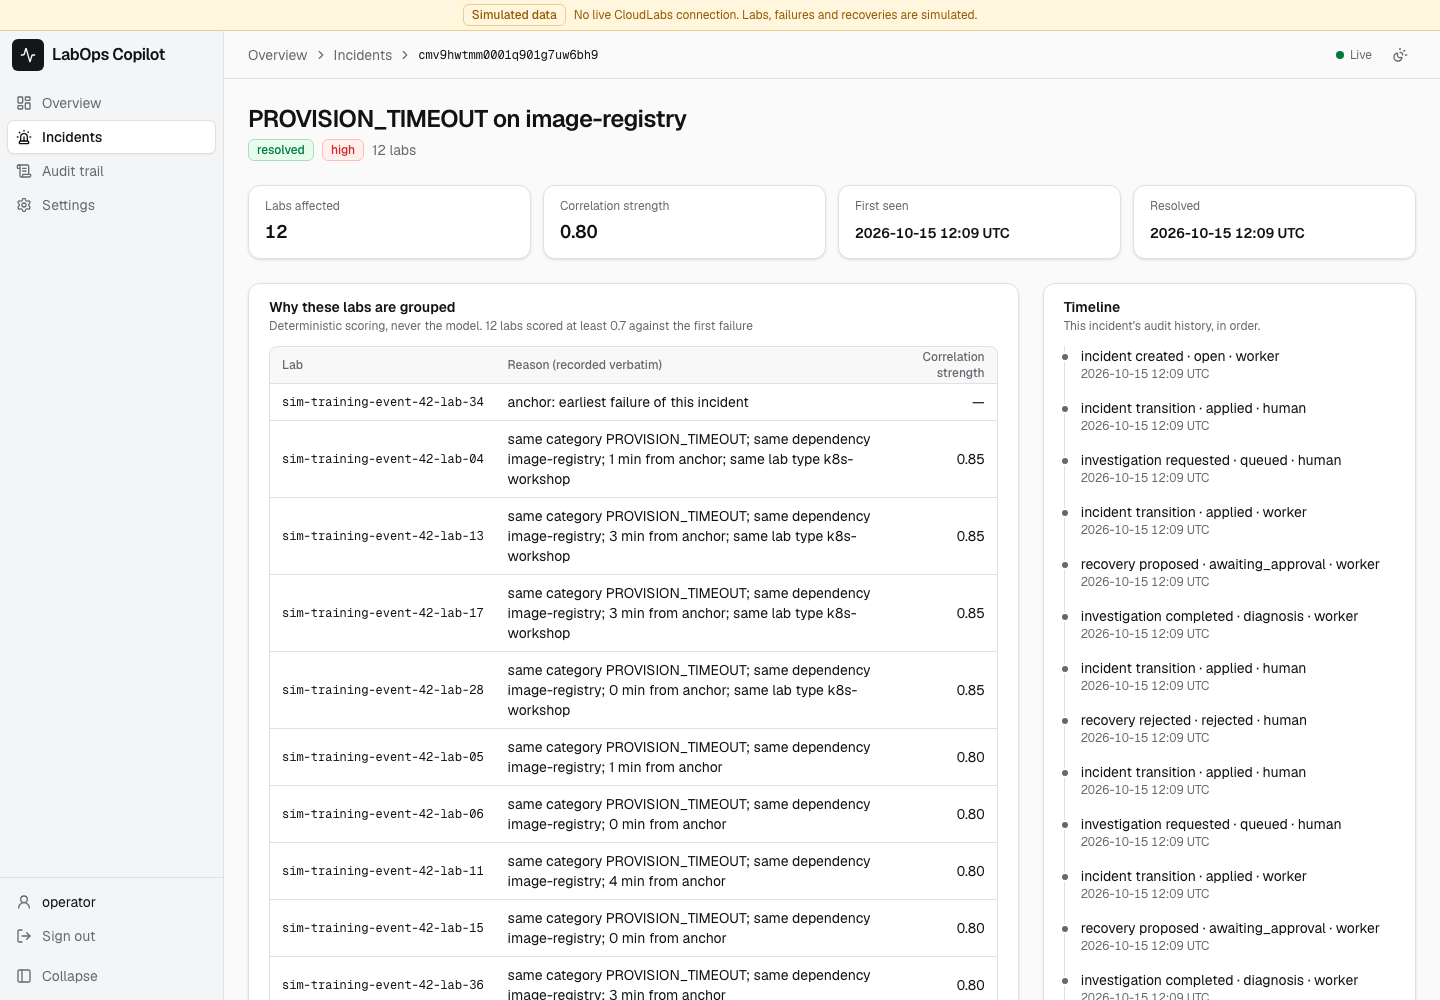
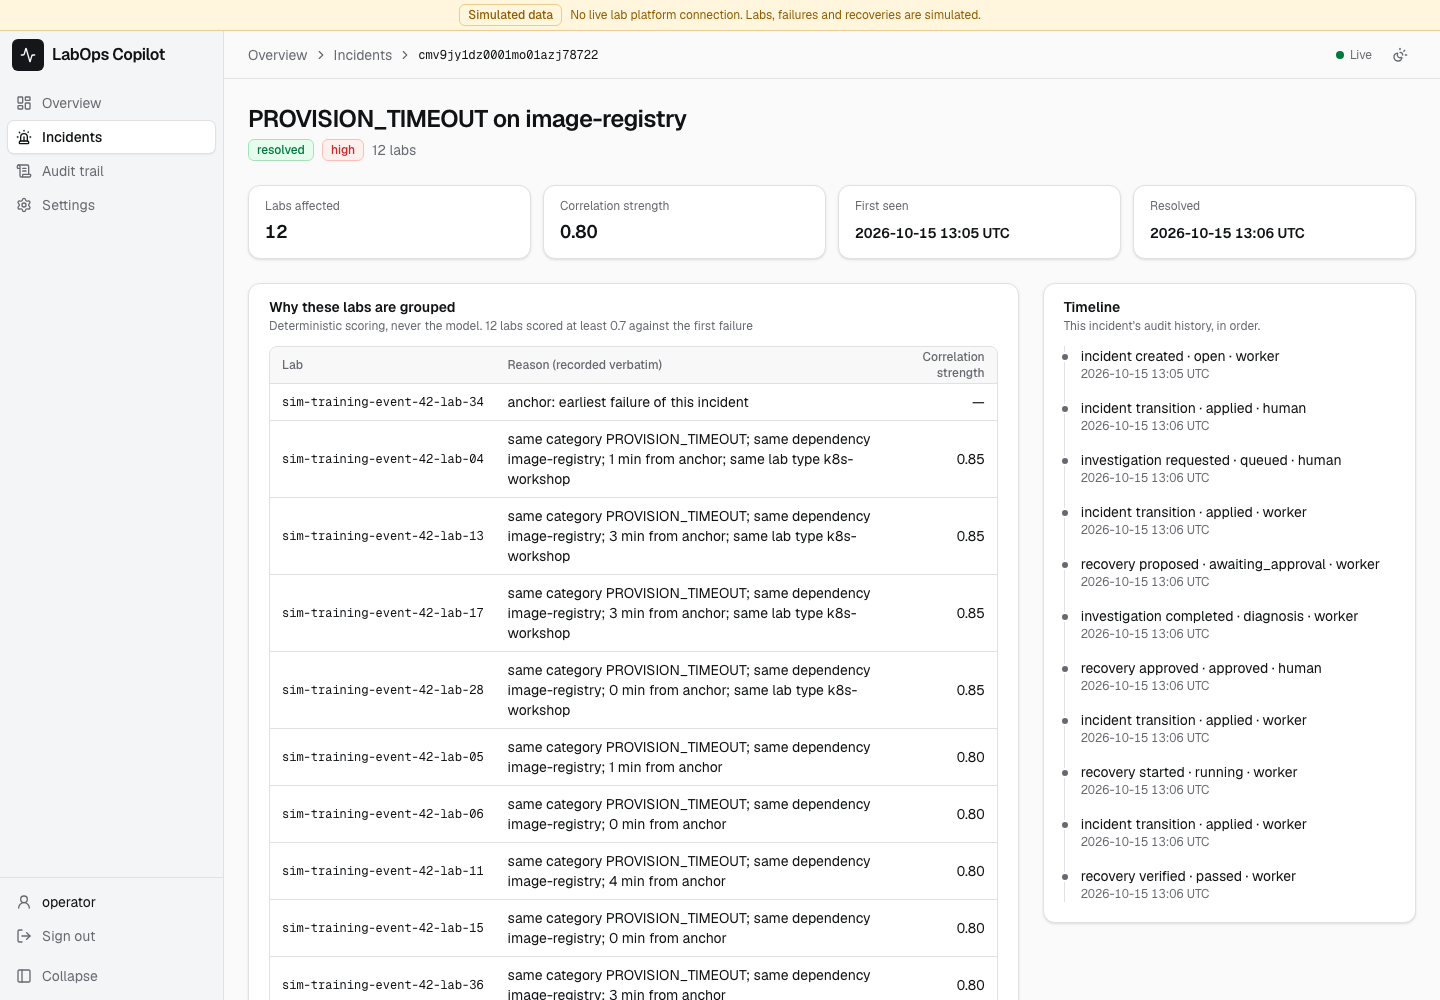
docs: describe the project in its own terms
The tagline is now AI-assisted incident correlation and safe recovery
orchestration for cloud lab operations. Vendor names are gone from every doc,
skill, comment and test, and the integrations skill is now integration-adapter.
The README closes with a short note on why the project was built. Screenshots
are retaken from a run that follows the README walkthrough step by step, and
the numbers table is read from that same run.

diff --git a/README.md b/README.md
@@ -1,24 +1,18 @@
 # LabOps Copilot
 
-**From scattered lab failures to an evidence-backed, safely managed incident
-workflow.**
+**AI-assisted incident correlation and safe recovery orchestration for cloud
+lab operations.**
 
-LabOps Copilot is an AI-assisted incident response and recovery coordination
-prototype for cloud lab operations. It ingests operational events from a
+LabOps Copilot is a prototype that takes cloud lab operations from scattered
+failures to an evidence-backed, safely managed incident workflow. It ingests operational events from a
 simulated lab fleet, correlates unrelated-looking failures into explainable
 candidate incidents, runs an LLM investigation over bounded evidence, and then
 routes any proposed recovery through a deterministic policy engine and a human
 approval before a background worker executes and verifies it.
 
-> **Positioning.** This is a proposed companion concept for a CloudLabs-style
-> platform — a focused workflow and engineering demonstration. It is **not** a
-> claim that Spektra Systems lacks incident management, correlation or recovery
-> capability. Public materials describe overlapping CloudLabs and Cosmos
-> features; whether a genuine product gap exists needs validation with the
-> Spektra team.
->
 > **All lab infrastructure in this repository is simulated.** The MVP does not
-> touch real cloud resources and makes no live CloudLabs connection.
+> touch real cloud resources and makes no live connection to any lab
+> platform.
 
 ![The overview dashboard after the demo scenario](docs/images/dashboard.png)
 
@@ -146,11 +140,11 @@ read from `GET /api/metrics`. Nothing here is estimated.
 
 | Figure | p50 | Note |
 |---|---|---|
-| First event to incident | 2.14 s | About 2 s is the deliberate dispatch delay that lets a burst collapse into one correlation run |
-| Correlation run | 9 ms | 8 runs, one per window |
-| Investigation job | 30 ms | Fixture model; a real model adds its own latency |
-| Recovery execution | 56 ms | Revalidate, retry, verify |
-| Approval to verified | 2.09 s | The same 2 s dispatch delay, then the run |
+| First event to incident | 2.06 s | About 2 s is the deliberate dispatch delay that lets a burst collapse into one correlation run |
+| Correlation run | 10 ms | 8 runs, one per window |
+| Investigation job | 29 ms | Fixture model; a real model adds its own latency |
+| Recovery execution | 63 ms | Revalidate, retry, verify |
+| Approval to verified | 2.14 s | The same 2 s dispatch delay, then the run |
 
 ---
 
@@ -277,7 +271,7 @@ It covers design principles, system context and trust boundaries, runtime
 topology, the backend module map, the incident lifecycle sequence, the data
 model with DB-level invariants, lab and incident state machines, the correlation
 engine and its signal weights, the AI boundary rules, the recovery safety model,
-reliability and failure behaviour, observability, the CloudLabs integration
+reliability and failure behaviour, observability, the lab platform integration
 gate, the security model, the test architecture, deployment topology, current
 implementation status, and the trade-offs taken.
 
@@ -508,7 +502,7 @@ envelope.
 | `POST` | `/api/integrations/:provider/test` | Run the adapter's own probe |
 | `POST` | `/api/demo/scenarios/:name` | Run a seeded scenario; idempotent per seed; only when `DEMO_ENABLED` |
 
-Sync, webhook and delivery endpoints for CloudLabs are **not built on purpose**:
+Sync, webhook and delivery endpoints for the lab platform are **not built on purpose**:
 their contract is unverified (`ARCHITECTURE.md` section 13).
 
 ---
@@ -619,7 +613,7 @@ Known and deliberate. Each is recorded in `docs/infra/INFRA.md`.
   do.
 - **Nothing alerts on a long open transaction.** The metric exists; the alert
   does not.
-- **No live CloudLabs connector.** Built only after the API contract,
+- **No live lab platform connector.** Built only after the API contract,
   credentials and a sandbox are confirmed (`ARCHITECTURE.md` section 13).
 - **Not hosted.** Local-only by decision; the intended production shape is in
   `ARCHITECTURE.md` section 16.
@@ -630,16 +624,17 @@ Known and deliberate. Each is recorded in `docs/infra/INFRA.md`.
 
 Deliberately out of scope for the MVP:
 
-- Assuming access to Spektra's private systems or undocumented endpoints
-- Real CloudLabs recovery execution, unless separately authorised and sandboxed
+- Assuming access to any platform's private systems or undocumented endpoints
+- Real recovery execution against a live platform, unless separately authorised
+  and sandboxed
 - Real Azure/AWS provisioning or destructive cloud operations
-- Replacing CloudLabs or Cosmos, or a general-purpose lab creation platform
+- Replacing a lab platform, or becoming a general-purpose lab creation platform
 - Arbitrary command execution by an LLM
 - Kubernetes or multi-service deployment
 - Multiple cooperating AI agents without a clear need
 - Production-scale claims from a local prototype
 
-A live CloudLabs connector will only be implemented against verified official
+A live lab platform connector will only be implemented against verified official
 documentation, supplied credentials and sandbox access. The provider-adapter
 boundary exists so that adding it later does not change the pipeline. Until
 then the simulator is the data source and the connection state reads
@@ -650,3 +645,10 @@ then the simulator is the data source and the connection state reads
 ## License
 
 Private project. All rights reserved.
+
+---
+
+## About this project
+
+LabOps Copilot was built as a practical assessment for an interview with
+Spektra Systems.

diff --git a/ARCHITECTURE.md b/ARCHITECTURE.md
@@ -7,10 +7,10 @@ built is marked as such.
 recovery orchestration and verification for cloud lab operations.
 
 > **Important framing.** All lab infrastructure in this system is **simulated**.
-> There is no live CloudLabs connection in the MVP. The integration layer exists
+> There is no live lab platform connection in the MVP. The integration layer exists
 > as a provider-neutral adapter so a verified connector can be added later
 > without changing the pipeline. See
-> [Integration gate](#13-integration-gate--cloudlabs).
+> [Integration gate](#13-integration-gate--external-lab-platform).
 
 ---
 
@@ -46,7 +46,7 @@ flowchart LR
 
   subgraph external["External"]
     LLMP["LLM provider<br/>structured outputs"]
-    CL["CloudLabs platform<br/>(conditional, access-gated)"]
+    CL["External lab platform<br/>(conditional, access-gated)"]
     OBS["Observability backend<br/>OTel collector"]
   end
 
@@ -200,7 +200,7 @@ apps/api/
                         preconditions, retry and cooldown limits
       recovery/         services/ (propose, approve/reject, expire); execution
                         with revalidation and verification in jobs/execute.job.ts
-      integrations/     adapters/ (simulator, CloudLabs with no capabilities:
+      integrations/     adapters/ (simulator, lab platform with no capabilities:
                         the gate is closed), connection settings
       metrics/          GET /api/metrics: combines each module's stats.ts
       demo/             flag-gated scenario trigger (DEMO_ENABLED)
@@ -453,7 +453,7 @@ erDiagram
   }
   INTEGRATION_CONNECTION {
     string id PK
-    string provider "cloudlabs"
+    string provider "lab-platform|simulator"
     string state "not_configured|connecting|connected|error|needs_attention"
     string encryptedCredentials "AES-256-GCM; never returned to a client"
     int keyVersion "which key sealed it"
@@ -857,7 +857,7 @@ All demo numbers come from real runs. No fabricated dashboards.
 
 ---
 
-## 13. Integration gate — CloudLabs
+## 13. Integration gate — external lab platform
 
 The adapter interface exists; the live implementation does not, and will not
 be written speculatively. `capabilities` is read at runtime, and the UI renders
@@ -867,7 +867,7 @@ available.
 **Gate before any live code:** official API documentation obtained, auth scheme
 and scopes confirmed, sandbox tenant or sample payloads supplied, webhook
 security model documented, rate limits known, permitted operations confirmed.
-Absent that, the CloudLabs adapter claims no capabilities and its connection
+Absent that, the lab platform adapter claims no capabilities and its connection
 reads `not_configured`. The product never claims a connection it has not tested.
 
 **Credential handling:** submitted server-side over HTTPS → sealed at rest with
@@ -908,7 +908,7 @@ Three properties make the gate structural rather than a convention:
 2. **`canExecuteRecovery` is typed as the literal `false`.** A future adapter
    cannot enable live recovery without changing the type, which is a visible
    diff rather than a value someone flipped in a commit.
-3. **No capability combination yields `connected` for the CloudLabs adapter.**
+3. **No capability combination yields `connected` for the lab platform adapter.**
    It reports `NO_CAPABILITIES`, makes no network call, and a test asserts
    `not_configured, never connected` by name.
 
@@ -1105,7 +1105,7 @@ end-to-end workflow exists before breadth is added.
 
 ## 19. Open questions
 
-1. **CloudLabs API contract** — auth, endpoints, event types, webhook security,
+1. **Lab platform API contract** — auth, endpoints, event types, webhook security,
    rate limits. Blocks F2a beyond the adapter interface.
 2. **Sandbox access** — a test tenant or sample payloads. Until then the
    simulator is the only data source.

diff --git a/docs/specs/labops-copilot/PLAN.md b/docs/specs/labops-copilot/PLAN.md
@@ -130,7 +130,7 @@ a duplicate-execution bug can hide.
 - Browser → API: Zod on every body, param and query; session-authenticated writes; body size limits.
 - LLM → policy: output is an untrusted proposal; closed action enum; targets intersected with the incident's labs.
 - Event text → LLM: delimited data block, length-capped, redacted before assembly.
-- Provider → API: webhook receiver is **not built** until the CloudLabs contract is verified.
+- Provider → API: webhook receiver is **not built** until the lab platform contract is verified.
 - Secrets: integration credentials encrypted at rest (AES-256-GCM, `node:crypto`), never returned or logged.
 
 **Simplest version that covers the spec:** one API process, one worker process,
@@ -192,7 +192,7 @@ the code. Where the built name differs, the module is the same:
 | `approvals/approve.ts`, `recovery/verify.ts` | `modules/recovery/services/approve.ts`, `modules/recovery/services/expire.ts`; verification lives in `modules/recovery/jobs/execute.job.ts` |
 | `platform/events-stream/hub.ts` with a Redis subscriber, `stream.routes.ts` | `platform/events-stream/hub.ts` polling committed rows, `feed.ts`, `routes.ts` |
 | web `lib/sse.ts` | `lib/live.ts`, `components/live-refresh.tsx`, `app/api/events/stream/route.ts` |
-| `integrations/integrations.routes.ts`, web `integrations/cloudlabs/page.tsx` | `modules/integrations/routes.ts`, `(dashboard)/integrations/page.tsx` |
+| `integrations/integrations.routes.ts`, web `integrations/<provider>/page.tsx` | `modules/integrations/routes.ts`, `(dashboard)/integrations/page.tsx` |
 
 Ordered by dependency: data → logic → API → UI. Every phase merges as its own PR
 with lint, typecheck, unit, integration and coverage green.
@@ -453,13 +453,13 @@ Phase 11 deviations, settled by measurement rather than by the docs:
 
 **Endpoints:**
 - `GET /api/integrations`
-- `PUT /api/integrations/cloudlabs` (validates, encrypts, stores; the response never echoes credentials)
-- `POST /api/integrations/cloudlabs/test`
-- `DELETE /api/integrations/cloudlabs`
+- `PUT /api/integrations/:provider` (validates, encrypts, stores; the response never echoes credentials)
+- `POST /api/integrations/:provider/test`
+- `DELETE /api/integrations/:provider`
 
 `sync`, `webhooks` and `deliveries` are **not built**: their contract is unverified (Integration gate, `ARCHITECTURE.md §13`).
 **Data / migrations:** `IntegrationConnection(id, provider UNIQUE, displayName, state enum, encryptedCredentials bytea?, keyVersion, supportedEventTypes jsonb, lastSuccessfulTestAt?, lastSyncAt?, updatedBy, createdAt, updatedAt)`.
-**Files:** new `platform/secrets/crypto.ts` (AES-256-GCM, key from `CREDENTIALS_KEY` env, versioned), `modules/integrations/adapters/adapter.ts` (the `ProviderAdapter` interface), `modules/integrations/adapters/simulator-adapter.ts`, `modules/integrations/adapters/cloudlabs-adapter.ts` (reports no capabilities, so the connection reads `not_configured`), `integrations/integrations.routes.ts`; web `app/(dashboard)/integrations/cloudlabs/page.tsx`.
+**Files:** new `platform/secrets/crypto.ts` (AES-256-GCM, key from `CREDENTIALS_KEY` env, versioned), `modules/integrations/adapters/adapter.ts` (the `ProviderAdapter` interface), `modules/integrations/adapters/simulator-adapter.ts`, `modules/integrations/adapters/lab-platform-adapter.ts` (reports no capabilities, so the connection reads `not_configured`), `integrations/integrations.routes.ts`; web `app/(dashboard)/integrations/<provider>/page.tsx`.
 **Logic:** the UI renders only what `capabilities` reports, and simulator mode is shown clearly. No auth fields are rendered until the real contract is known (spec F2a).
 **Tests:**
 - An encrypt/decrypt round trip works, and a wrong key fails closed.

diff --git a/AGENTS.md b/AGENTS.md
@@ -12,10 +12,9 @@ the per-phase notes as history).
 
 ## 1. What this project is
 
-LabOps Copilot is an AI-assisted incident response and recovery coordination
-prototype for cloud lab operations (a companion concept for a CloudLabs-style
-platform; never imply Spektra lacks any capability). **All lab infrastructure
-is simulated**; nothing touches a real cloud resource, and the UI says so on
+LabOps Copilot is a prototype for AI-assisted incident correlation and safe
+recovery orchestration in cloud lab operations. Never imply that any existing
+platform lacks a capability. **All lab infrastructure is simulated**; nothing touches a real cloud resource, and the UI says so on
 every page.
 
 The workflow, which now runs end to end in the browser:
@@ -278,7 +277,7 @@ for Phase N is `LOC-(5+N)`.
 | 12 | LOC-17 | #15 | Dashboard (run **before** 10 and 11 by agreement): BFF login, overview, incidents, incident detail with approve/reject, audit; Zod-parsed responses |
 | 10 | LOC-15 | #16 | Live updates over SSE (see section 8a) |
 | 11 | LOC-16 | #19 | Real LLM provider, opt-in: Gemini over plain `fetch`, Zod → Gemini schema transform, bounded retry, token usage in `modelMetadata`, opt-in live test |
-| 13 | LOC-18 | #21 | Integration settings and secrets, adapter-gated: AES-256-GCM credential sealing, `ProviderAdapter`, a CloudLabs adapter claiming no capabilities, four settings routes, settings page (see section 8c) |
+| 13 | LOC-18 | #21 | Integration settings and secrets, adapter-gated: AES-256-GCM credential sealing, `ProviderAdapter`, a lab platform adapter claiming no capabilities, four settings routes, settings page (see section 8c) |
 | 14 | LOC-19 | #25 | Playwright journey in CI against compose; metrics derived from committed rows (`/api/metrics`) |
 | — | — | #26, #28 | UI revamp: shell, dark mode, design tokens; dashboard with KPI tiles, charts and a time window |
 | — | — | #29 | Fixes #22, #23, #24 (the fixture now shows the policy block), #27 |
@@ -374,7 +373,7 @@ assumed.
 
 **Built.** `platform/secrets/crypto.ts` seals credentials with AES-256-GCM
 (`iv | tag | ciphertext`, random IV per seal) under `CREDENTIALS_KEY`.
-`modules/integrations/adapters/adapter.ts` defines the boundary; `cloudlabs-adapter.ts` reports
+`modules/integrations/adapters/adapter.ts` defines the boundary; `lab-platform-adapter.ts` reports
 `NO_CAPABILITIES` and makes no network call; `simulator-adapter.ts` reports what
 the simulator genuinely has. Four routes: `GET /api/integrations`, and
 `PUT`/`POST .../test`/`DELETE` for a provider. A settings page renders only what
@@ -403,7 +402,7 @@ the first one only shows up on a path the original test never walked:
 
 - An adapter with nothing reachable read `error` after a failed test. `error`
   means "retrying might work", and it never can while the gate is closed. Now
-  `not_configured`. The test missed it because it tested cloudlabs with *no
+  `not_configured`. The test missed it because it tested the lab platform with *no
   stored row*, taking a different branch.
 - A failed test left stale `supportedEventTypes` on the row, so the UI would
   keep offering subscriptions the provider no longer confirms. Now cleared.

diff --git a/CLAUDE.md b/CLAUDE.md
@@ -22,14 +22,13 @@ lab failures → correlate into explainable incidents → AI investigation
              execution → verification → audit trail
 ```
 
-**Framing matters.** This is a proposed *companion concept* for a
-CloudLabs-style platform. It is **not** a claim that Spektra Systems lacks
-incident management, correlation or recovery capability. Never write
-documentation, commit messages, comments or UI copy that implies Spektra has a
-product gap.
+**Framing matters.** This is AI-assisted incident correlation and safe recovery
+orchestration for cloud lab operations: an engineering demonstration. Never
+write documentation, commit messages, comments or UI copy that claims any
+existing platform lacks a capability, or that names a specific vendor.
 
-**All lab infrastructure is simulated.** There is no live CloudLabs connection
-and the MVP never touches real cloud resources. Any UI or log surface that shows
+**All lab infrastructure is simulated.** There is no live lab platform
+connection and the MVP never touches real cloud resources. Any UI or log surface that shows
 simulated data must make that visible. Never imply a live connection was tested
 when it was not.
 
@@ -423,7 +422,7 @@ negative tests and verification steps.
 | Change correlation logic | `.claude/skills/correlation-engine` |
 | Change anything LLM-related | `.claude/skills/ai-investigation` |
 | Add an executable recovery action | `.claude/skills/recovery-action` |
-| Work on the integrations module | `.claude/skills/cloudlabs-adapter` |
+| Work on the integrations module | `.claude/skills/integration-adapter` |
 | Add or change logging / tracing / metrics | `.claude/skills/observability` |
 | Write or review any test | `.claude/skills/negative-case-testing` |
 
@@ -465,7 +464,7 @@ The recipes below are the short form.
    incident state untouched.
 5. Add a fixture-based test for the happy path **and** a malformed-output test.
 
-### Add a CloudLabs capability
+### Add a lab platform capability
 
 Read the **Integration gate** in `ARCHITECTURE.md §13` first. Implement a method
 on the adapter interface only when it is verified against official documentation,
@@ -494,8 +493,8 @@ A change is complete when:
 - [ ] Any new side effect is idempotent.
 - [ ] `ARCHITECTURE.md` and/or `README.md` updated if a boundary, endpoint or
       decision changed.
-- [ ] Nothing user-visible describes simulated data as live, or implies Spektra
-      has a capability gap.
+- [ ] Nothing user-visible describes simulated data as live, or implies an
+      existing platform has a capability gap.
 
 ---
 
@@ -508,7 +507,7 @@ A change is complete when:
 - Never store a secret in plaintext, in a log, in a prompt, or in a URL.
 - Never return credentials from an endpoint.
 - Never mark an incident resolved without passing verification.
-- Never claim a live CloudLabs integration, a production scale, or a performance
+- Never claim a live lab platform integration, a production scale, or a performance
   improvement that was not measured.
 - Never disable a test to make a build pass.
 - Never add a dependency without saying why the standard toolchain cannot do it.

diff --git a/.claude/skills/integration-adapter/SKILL.md b/.claude/skills/integration-adapter/SKILL.md
@@ -1,9 +1,9 @@
 ---
-name: cloudlabs-adapter
+name: integration-adapter
 description: Use when working on the integrations module - provider adapter interface, connection settings, credential storage, webhook receiver, or sync jobs. Enforces the integration gate - implement only capabilities verified against official documentation, never invent endpoints or auth schemes.
 ---
 
-# Working on the CloudLabs integration layer
+# Working on the lab platform integration layer
 
 ## Preconditions
 
@@ -11,8 +11,9 @@ Read `ARCHITECTURE.md §13` (integration gate) and `CLAUDE.md §5` (prompt
 injection and untrusted external input).
 
 **The gate:** a live adapter method may only be implemented when it is verified
-against official CloudLabs documentation, with credentials and sandbox access
-supplied by Spektra. Until then the CloudLabs adapter claims no capabilities
+against the platform's official documentation, with credentials and sandbox
+access supplied by its owner. Until then the lab platform adapter claims no
+capabilities
 and its connection reads `not_configured`.
 
 ## Where things go
@@ -22,7 +23,7 @@ apps/api/src/modules/integrations/
   adapters/
     adapter.ts            ProviderAdapter, capabilities, stateFor (state is derived)
     simulator-adapter.ts  simulator adapter (always available)
-    cloudlabs-adapter.ts  CloudLabs adapter: verified methods only (none yet)
+    lab-platform-adapter.ts  lab platform adapter: verified methods only (none yet)
   service.ts            connections: seal, list, test, delete; audit
   routes.ts, schemas.ts the settings endpoints and their strict schemas
 apps/api/src/platform/secrets/crypto.ts   AES-256-GCM sealing with CREDENTIALS_KEY
@@ -50,7 +51,7 @@ and delivery records.
 
 2. **Report capabilities at runtime.** The UI renders only what the adapter
    reports. Never present an unverified event type as available. Never display a
-   generated webhook receiver URL unless CloudLabs is documented to support
+   generated webhook receiver URL unless the platform is documented to support
    customer-configured webhook delivery.
 
 3. **Never invent provider behaviour.** Do not invent endpoints, auth schemes,

diff --git a/docs/specs/labops-copilot/SPEC.md b/docs/specs/labops-copilot/SPEC.md
@@ -4,8 +4,9 @@
 failures into explained incidents, an evidence-backed diagnosis and a safely
 approved, verified recovery — with a full record of who did what and why.
 
-> **Positioning.** A proposed companion concept for a CloudLabs-style platform
-> and an engineering demonstration. It is not a claim that any existing platform
+> **Positioning.** AI-assisted incident correlation and safe recovery
+> orchestration for cloud lab operations: an engineering demonstration. It is
+> not a claim that any existing platform
 > lacks incident management, correlation or recovery. **All lab infrastructure
 > is simulated**; nothing touches real cloud resources.
 

diff --git a/.claude/skills/feature-workflow/SKILL.md b/.claude/skills/feature-workflow/SKILL.md
@@ -176,6 +176,6 @@ one that hides one.
 | Mark done with a known gap unmentioned | State the gap explicitly |
 | Refactor unrelated code mid-feature | Keep one logical change per commit |
 | Bypass a safety rule to ship faster | The rule is the feature |
-| Invent a CloudLabs capability to unblock the demo | Leave it `not_configured` |
+| Invent a lab platform capability to unblock the demo | Leave it `not_configured` |
 | Flatter, then hedge the real problem | Lead with the problem (`CLAUDE.md §14`) |
 | Agree because the human asked | Say why it is wrong; then implement their call |

diff --git a/.claude/skills/lab-simulator/SKILL.md b/.claude/skills/lab-simulator/SKILL.md
@@ -85,7 +85,7 @@ An illegal transition throws identically in the API, the worker and the tests.
 - The dashboard must show simulator data as simulated.
 - The demo route's log line carries `simulated: true`, and every event and lab
   carries `source: 'simulated'`.
-- Never write UI copy implying a live CloudLabs connection was tested.
+- Never write UI copy implying a live lab platform connection was tested.
 
 ## Mandatory tests
 
